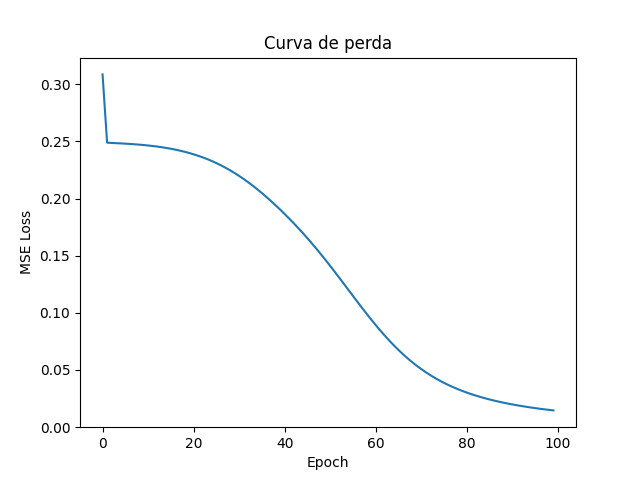
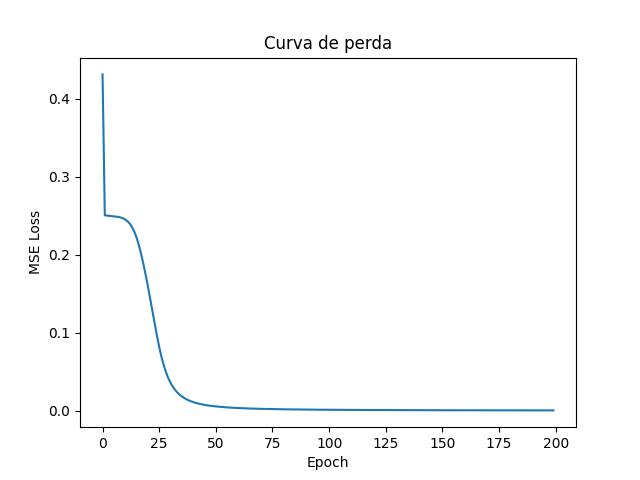
Update in parametros de treinamento

diff --git a/plot.py b/plot.py
@@ -13,9 +13,9 @@ y = np.array([[0], [1], [1], [0]])
 
 losses = []
 
-net = RedeNeural(2, 4, 1)
-epochs = 10000
-lr = 0.1
+net = RedeNeural(2, 8, 1)
+epochs = 20000
+lr = 0.3
 
 for epoch in range(epochs):
     y_pred = net.forward(X)

diff --git a/train.py b/train.py
@@ -10,9 +10,9 @@ X = np.array([
 
 y = np.array([[0], [1], [1], [0]])
 
-net = RedeNeural(2, 4, 1)
+net = RedeNeural(2, 8, 1)
 epochs = 10000
-lr = 0.1
+lr = 0.3
 
 for epoch in range(epochs):
     y_pred = net.forward(X)
